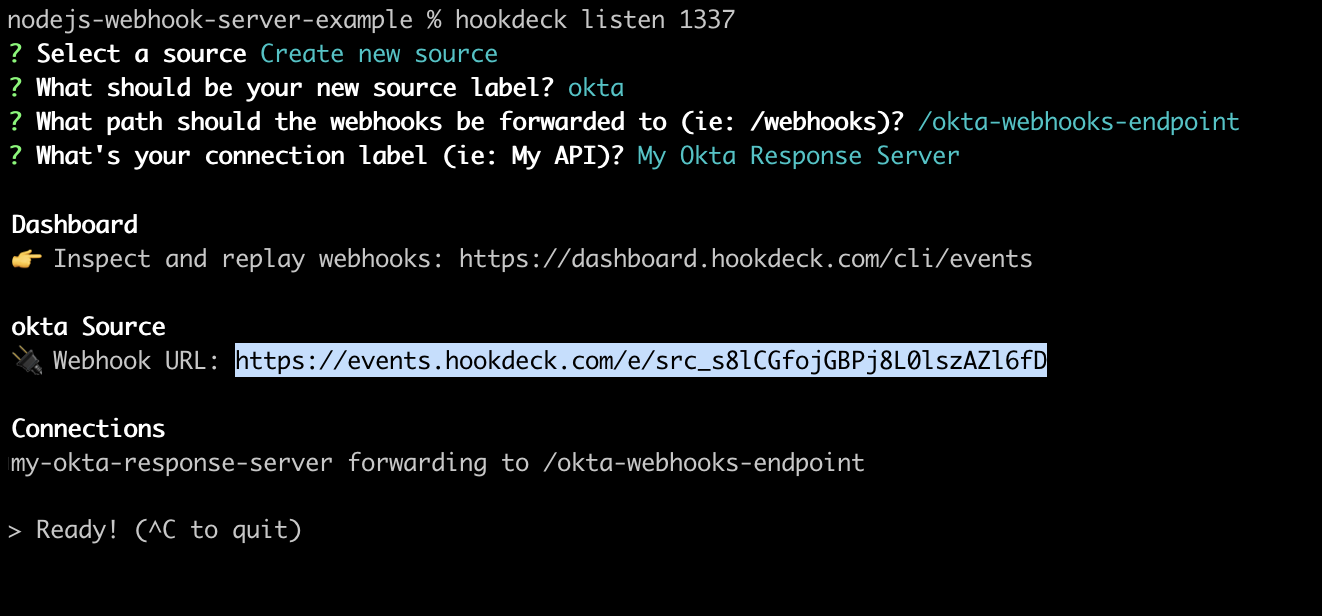
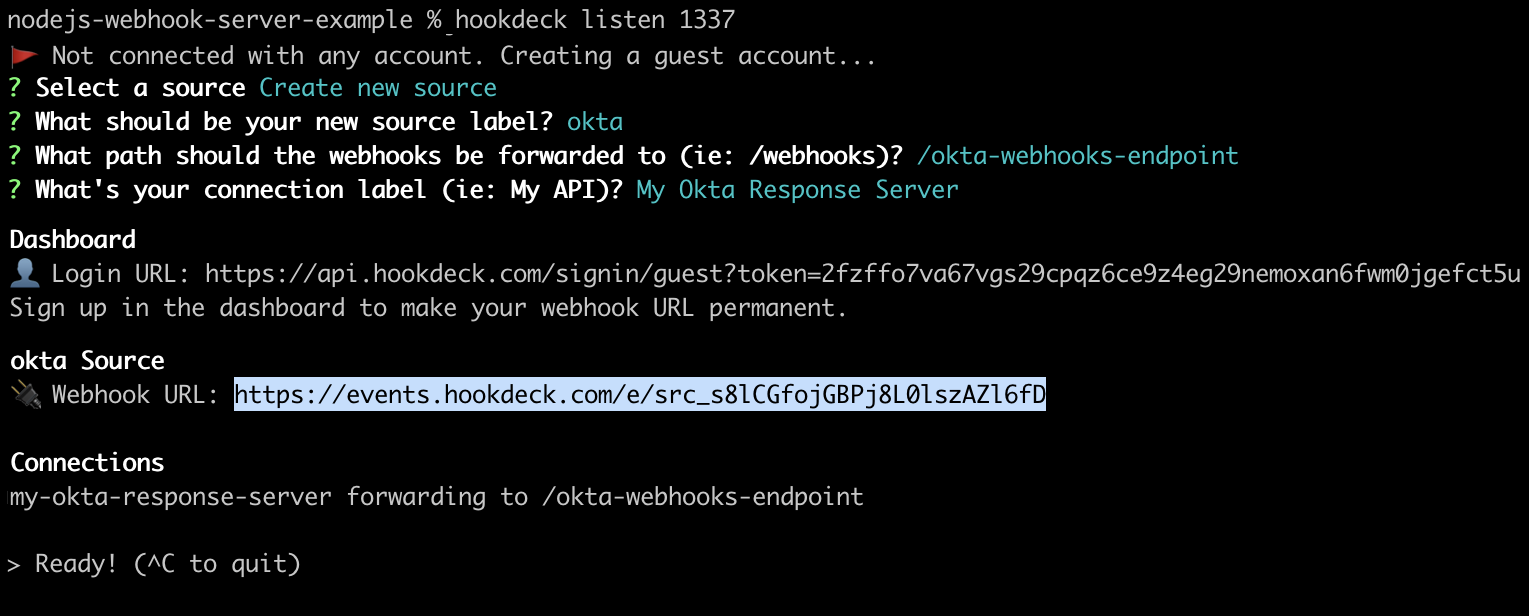
Updated one image and addressed Van's review comments

Changed region(s): [[0.0, 0.0, 1.0, 0.7094], [0.0, 0.7403, 0.6513, 0.9253]]

diff --git a/packages/@okta/vuepress-site/docs/guides/event-hook-hookdeck/main/index.md b/packages/@okta/vuepress-site/docs/guides/event-hook-hookdeck/main/index.md
@@ -4,7 +4,7 @@ excerpt: How to demonstrate Event Hooks using Hookdeck to expose a local app to 
 layout: Guides
 ---
 
-<StackSelector class="cleaner-selector"/>
+<StackSelector />
 
 This guide provides a working example of an Okta Event Hook. It uses the Hookdeck utility to expose a local application to the internet and receive and respond to Event Hook calls. Event Hooks are outbound calls from Okta that can notify your own software systems of events occurring in your Okta org. The Hookdeck utility enables the testing of Event Hooks locally, rather than implementing an internet-based production or test external service.
 
@@ -19,7 +19,7 @@ This guide provides a working example of an Okta Event Hook. It uses the Hookdec
 **What you need**
 
 * [Okta Developer Edition organization](https://developer.okta.com/signup/)
-* A local application. Or see [Create a local application](#create-a-local-application) in this guide to install the sample code application.
+* A local application. See [Create a local application](#create-a-local-application) in this guide to install a sample code application.
 * The Hookdeck utility. See [Install Hookdeck](#install-hookdeck).
 
 **Sample code**
@@ -30,7 +30,7 @@ This guide provides a working example of an Okta Event Hook. It uses the Hookdec
 
 ## Create a local application
 
-<StackSelector snippet="sample-app" noSelector/>
+<StackSnippet snippet="sample-app" />
 
 ## Install Hookdeck
 
@@ -43,7 +43,7 @@ Some installation notes:
 
 ### Run Hookdeck
 
-After installing Hookdeck, ensure that it's running by creating a "tunnel" into a local port (1337 in this example). Run the following command in your terminal:
+After installing Hookdeck, start a session to forward your Event Hooks to a local port (1337 in this example). Run the following command in your terminal:
 
 ```terminal
 nodejs-webhook-server-example> hookdeck listen 1337
@@ -71,13 +71,13 @@ With this data, Hookdeck creates a session and URL to use for sending requests. 
 
 ![A screen shot of a terminal that displays a Hookdeck session status. The session status contains urls that tunnel into the local port.](/img/hookdeck-and-event-hooks-session.png)
 
-> **Note:** Copy the forwarding **Webhook URL** that is available from the Hookdeck terminal session. For example, `https://events.hookdeck.com/e/src_s8lCGfojGBPj8L0lszAZl6fD`. You'll use this URL when setting up your Okta Event Hook.
+> **Note:** You'll use the **Webhook URL** that is available from the Hookdeck terminal session when setting up your Event Hook. For example, `https://events.hookdeck.com/e/src_s8lCGfojGBPj8L0lszAZl6fD`.
 
 See [Hookdeck](https://hookdeck.com/) or their [Product docs](https://hookdeck.com/docs/introduction) for further information.
 
 ### Review Hookdeck dashboard
 
-The Hookdeck dashboard provides an opportunity to review all calls to your local application. See [Browsing Events](https://hookdeck.com/docs/browsing-event) for details on using this interface. With the Hookdeck utility running, use the dashboard URL to access details on your hook calls: `https://dashboard.hookdeck.com/cli/events`.
+The Hookdeck dashboard provides an opportunity to review all calls to your local application. See [Browsing Events](https://hookdeck.com/docs/browsing-event) for details on using this interface. With the Hookdeck utility running, use the guest account **Login URL** to access details on your hook calls. For example, your initial guest account URL appears similar to: `https://api.hookdeck.com/signin/guest?token=2fzffo7va67vgs29cpqz6ce9z4eg29nemoxan6fwm0jgefct5u`.
 
 Each call to your local application appears in the dashboard and includes the response body, header, and other details:
 
@@ -101,7 +101,9 @@ Create the Okta Event Hook to work with your local application, which can now be
 
     >**Note:** Hookdeck generates the URL when creating the session and incorporates the local application's hook endpoint as part of the unique URL. That is, the endpoint is not explicitly defined as part of the URL.
 
-6. Leave the **Authentication field** and **Authentication secret** values blank in this example. However, to add Basic Authentication, add the application code required at [Add Basic Authorization and Body Parsing](/docs/guides/common-hook-set-up-steps/nodejs/main/#add-basic-authorization-and-body-parsing) and then enter the following values for those fields:
+6. Leave the **Authentication field** and **Authentication secret** values blank in this example.
+
+    However, to add Basic Authentication, add the application code required at [Add Basic Authorization and Body Parsing](/docs/guides/common-hook-set-up-steps/nodejs/main/#add-basic-authorization-and-body-parsing) and then enter the following values for those fields:
 
     * **Authentication field** = `authorization`
 
@@ -111,11 +113,13 @@ Create the Okta Event Hook to work with your local application, which can now be
 
 8. Click **Save & Continue**.
 
-9. With your Hookdeck session and local application running, complete the one-time verification Okta call at this time or verify the Event Hook later.
+9. With your Hookdeck session and local application running, complete the one-time verification Okta call at this time by clicking **Verify**. You can also verify the Event Hook at later time. See [Event Hook verification](/docs/guides/event-hook-hookdeck/#event-hook-verification).
 
-### Verify the Event Hook
+### Event Hook verification
 
 You must verify the Event Hook to prove that your external service controls the endpoint. See [One-Time Verification Request](/docs/concepts/event-hooks/#one-time-verification-request).
+
+>**Note:** Hookdeck includes the capability to verify your endpoint, and no code is necessary for your local application.
 
 To complete the one-time verification of the Event Hook:
 
@@ -139,7 +143,7 @@ To run a preview call of your Event Hook:
 1. Locate the Event Hook you created during the set-up step. In this example, select `New User Event Hook` or the name you gave the Event Hook.
 1. Click the **Actions** menu for this hook, and select **Preview**.
 1. In the **Configure Event Hook request** section, select an event from the **Event Type** drop-down menu. In this example, there is only one: `User Created (user.lifecycle.create)`.
-1. The most recent event populates the **Preview & Deliver Event Hook** section with the JSON body of the Event Hook if there is one. You can also select an older event from the **System Log Event** drop-down menu. If no event is available, the JSON body populates with sample data.
+1. The most recent event populates the **Preview & Deliver Event Hook** section with the JSON body of the Event Hook if there is one. If no event is available, the JSON body populates with sample data.
 1. Ensure that both your Hookdeck session and local sample application are running.
 
     >**Note:** If you start a new Hookdeck session at any time, make sure to update the Event Hook URL.
@@ -167,7 +171,9 @@ To run a test of your Event Hook:
         * **Last Name:** Doe
         * **User Name:** jane.doe@hookdeckexample.com
 
-1. Navigate back to your local application's console. The request body for this call appears.
+1. Click **Save** to create a new user. The new user triggers an Event Hook call.
+
+1. Navigate back to your local application's console. The request body for this call appears in the console, as designed by the local application code.
 
 1. Review your Hookdeck terminal output for a line item reference to the specific call and a unique dashboard URL to the details on the call.
 

diff --git a/packages/@okta/vuepress-site/docs/guides/event-hook-hookdeck/main/nodejs/sample-app.md b/packages/@okta/vuepress-site/docs/guides/event-hook-hookdeck/main/nodejs/sample-app.md
@@ -1,6 +1,6 @@
-Download the sample application, [nodejs-webhook-server-example](https://github.com/hookdeck/nodejs-webhook-server-example) from the Hookdeck Github repository, which provides a very basic Express Node.js application that responds to Okta Event Hook calls.
+Download the sample application, [nodejs-webhook-server-example](https://github.com/hookdeck/nodejs-webhook-server-example) from the Hookdeck GitHub repository. This sample app provides a basic Express Node.js application that responds to Okta Event Hook calls.
 
-The Event Hook use case is a simple local application response to the addition of a new Okta user.
+The Event Hook use case is to print the body of an Event Hook call to the application console, which is triggered with the addition of a new user in the Okta org.
 
 You can also modify an existing local application. Make sure to note the server port number of your local server and ensure there is an endpoint to receive event hooks.
 
@@ -9,31 +9,31 @@ You can also modify an existing local application. Make sure to note the server 
 1. Run the following command to clone the Hookdeck repository.
 
     ```bash
-    >git clone https://github.com/hookdeck/nodejs-webhook-server-example.git
+    git clone https://github.com/hookdeck/nodejs-webhook-server-example.git
     ```
 
 1. Navigate to the root of the project folder and install the required dependencies:
 
     ```bash
-    >cd nodejs-webhook-server-example
-    >npm install
+    cd nodejs-webhook-server-example
+    npm install
     ```
 
 1. Review the `routes.js` file. This file contains the endpoint that receives Okta's response, `/okta-webhooks-endpoint`, and prints the response body to the application console:
 
-```JavaScript
-router.post("/okta-webhooks-endpoint", function(req, res) {
-  console.log(req.body);
-  res.send("Okta Event hook Successfully received");
-});
-```
+    ```JavaScript
+    router.post("/okta-webhooks-endpoint", function(req, res) {
+    console.log(req.body);
+    res.send("Okta Event hook Successfully received");
+    });
+    ```
 
 ### Run the sample application
 
 1. From the project directory:
 
     ```bash
-    >npm start
+    npm start
     ```
 
 The console displays the message `Server running on localhost: 1337`.
